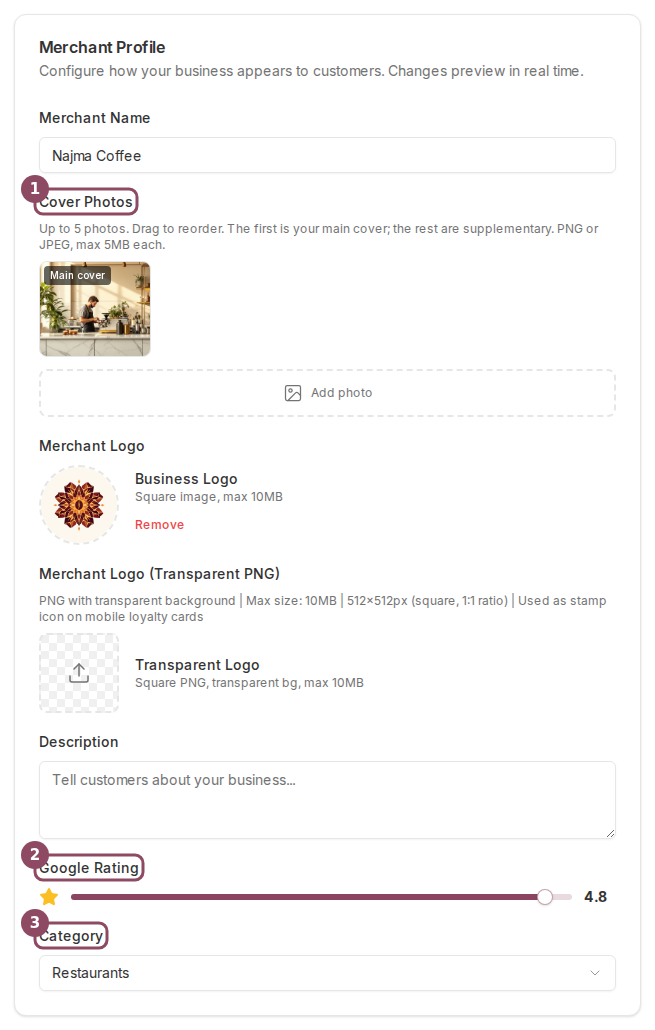
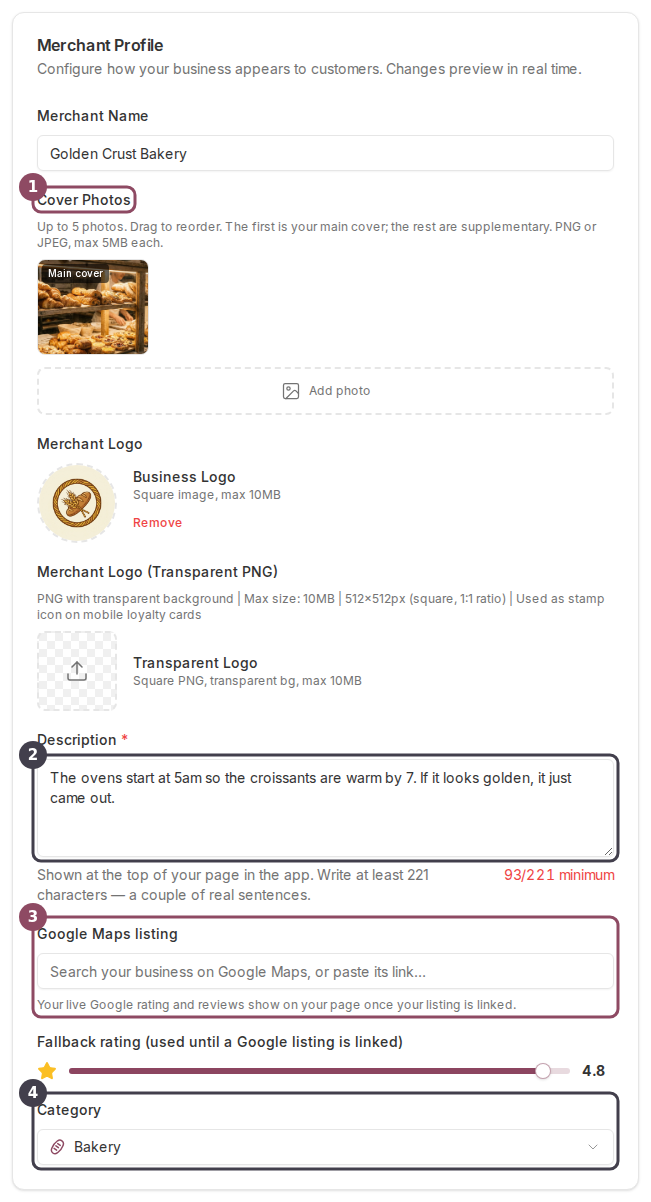
docs: add Your Google rating and opening hours (the merchant-page details strip)
New article for the stat strip qtap commit ba5529e put on the merchant page
and the three editor inputs that fill it: the Google Maps listing link, the
category, and the structured opening hours.

Also corrects four claims in merchants/settings/merchant-page-editor.mdx that
the same commit invalidated (the rating slider "does not read from Google",
eight categories, free-text working hours, a "short line" description), and
recaptures its Merchant Profile screenshot, which still showed the old form.

Claude-Session: https://claude.ai/code/session_017wvmqAfV45KcBaAZHmcoyv

diff --git a/CLAUDE.md b/CLAUDE.md
@@ -20,6 +20,107 @@ Automated runs by the Qtap Documentation Writer agent are logged here.
 
 ---
 
+## 2026-08-27 — Your Google rating and opening hours (the merchant-page details strip)
+
+**Article:** `merchants/merchant-page/rating-and-hours.mdx` (new) + a four-claim correction to
+`merchants/settings/merchant-page-editor.mdx` and a recapture of its stale profile screenshot.
+**Branch:** `claude/busy-clarke-4zgqw2`
+**Status:** Done. SMOKE_OK (TLS bridge, §6a); 8 new real annotated screenshots + 1 recapture,
+validate-images 8/8 and 4/4 OK. One task this run.
+
+### Task selection — the board is still fully triaged, so this was gap discovery (§14)
+`notion-query-data-sources` (SQL) returns 29 non-Done rows and every one carries a dated
+DUPLICATE / BLOCKED / NOT-A-FEATURE verdict from an earlier run. The only genuinely actionable
+rows left are three small prose corrections queued by the 08-23/08-26 runs (export-delete
+deleted-member note, the `c.qtap.qa` scan-address drift, the 409 concurrency paragraph) plus
+one engineering-fix row (`nfc_tags.stamp_card_id`). None is a new article.
+
+**`main` has caught up.** PRs #163–#185 are merged; #186–#191 (win-back, campaign analytics,
+deleted members, the two "without the app" merges, NFC placement, NFC Add Tag) are open and
+unmerged, so do not re-do those six.
+
+### The gap: the merchant page grew a stat strip and nobody documented it
+qtap commit `ba5529e` (2026-07-26, "Merchant page stat strip: preview/public parity + merchant
+data editor") replaced the merchant page's meta-chip identity block with the customer app's
+**stat strip** (category / Google rating / distance / live Open-Closed) on both the editor's
+phone preview and the public `/m/[slug]` page, and gave the editor the three inputs that fill
+it. Zero docs coverage, and the published `settings/merchant-page-editor.mdx` (written
+2026-05-03) is now wrong on four counts. All four fixed this run:
+
+| Published claim | Reality |
+|---|---|
+| "Google Rating is a slider… It does not read from Google" | `GooglePlaceField` (Places Autocomplete) saves `merchant_page.googlePlaceId`; the slider is relabelled **Fallback rating** and only renders while nothing is linked |
+| "Category is one of eight" | `MERCHANT_CATEGORIES` in `lib/constants/categories.ts` has **eighteen**, with icons |
+| "Working Hours is a free text field" | structured 7-day `BusinessHoursEditor` bound to a location's `opening_hours` |
+| "Description is a short line" | `MERCHANT_DESCRIPTION = { min: 221, max: 350 }`; save is blocked under the minimum |
+
+### Facts the article is built on (all grounded, all confirmed live)
+- `components/dashboard/merchant-page/google-place-field.tsx` — autocomplete over
+  `types: ['establishment']`; a pasted `google.*/maps/place/<name>` URL is parsed for the name
+  and primed into the search box (share links carry no usable `place_id`); the linked card
+  shows name / rating / review count / **Unlink**.
+- `supabase/functions/google-places/index.ts` (mobile repo) — **the pinned `googlePlaceId` is
+  honoured only when `activeBranchCount <= 1`.** A multi-branch merchant gets each branch
+  resolved by Find Place from Text biased to that branch's own coordinates. `CACHE_TTL_MS`
+  is 24h; a pg_cron `refresh_stale` task tops up rows older than 7 days.
+- `app/api/merchant-page/route.ts` — a changed `googlePlaceId` **deletes** the org's
+  `google_place_cache` row, so a corrected listing takes effect immediately.
+- `app/m/[slug]/merchant-public-page.tsx` — `stripRating = placeCache?.rating ?? (googleRating
+  > 0 ? googleRating : null)`, and the cell's sub-label reads "Google rating" even when the
+  number is the merchant's own fallback. Documented honestly ("keep the number you set honest").
+- `lib/opening-hours.ts` — `close <= open` is treated as a past-midnight close, so 6 PM–2 AM
+  reads Open at 1 AM; `getOpenState` checks yesterday's interval first.
+- `reviews-sheet.tsx` / `hours-sheet.tsx` — "Ratings come from Google. Qtap does not collect
+  its own reviews." and "Hours are set by the merchant in their dashboard."
+
+### THE GOTCHA WORTH KEEPING (verified live, shipped as a Warning)
+Hours save against **a branch**, and two different code paths pick that branch:
+- the editor uses `locationsData[0]`, and `hooks/use-locations.ts` filters `is_active` and
+  **orders by name** → the alphabetically first active branch;
+- `app/m/[slug]/page.tsx` reads `locations … .eq('is_active', true).limit(1)` with **no order**.
+
+Golden Crust proves the split live: hours are saved on **The Pearl Branch**, the editor edits
+**Al Sadd Branch** (which has `opening_hours = NULL`, so the editor shows the 09:00–22:00
+defaults), and the public page picked Al Sadd too, so its strip renders with **no Open cell at
+all** (2-up: Bakery / Map). Najma, Tea Time and Dana all render the fuller strip.
+
+### Screenshots (nothing was saved)
+`.routine/flows/merchant-page-strip.json` (points demo, **1440x2900**),
+`merchant-page-strip-public.json` (430x1000, the public `/m/najma-coffee` page) and
+`merchant-page-profile-recapture.json`. A Google listing was searched and selected to capture
+the linked-listing card, but **Update Merchant was never clicked**, so `googlePlaceId` is still
+null on every org and nothing on the account changed. No customer PII (merchant-owned content
+and one public Google listing).
+
+### Gotchas for future runs
+- **Set `"viewport": {"width":1440,"height":2900}` for `/merchant-page`.** The page is 2862px
+  tall; at that height nothing scrolls, so page coordinates equal viewport coordinates and
+  explicit `clip` rects become deterministic. Useful rects at 1440 wide: Google Maps listing
+  block `y 1273 h 92`, Fallback rating `y 1381 h 52`, Category `y 1449 h 68`, Working Hours
+  `y 1883 h 412`, the whole Merchant Profile card `x 280 y 364 w 627 h 1178`.
+- **`fill` does trigger Google Places autocomplete** (the `.pac-container` appears ~3s later),
+  and `{"press":"ArrowDown"}` + `{"press":"Enter"}` selects the first suggestion and fires
+  `place_changed`. No need to simulate typing.
+- **`maps.googleapis.com` is reachable through the agent proxy / TLS bridge** and
+  `NEXT_PUBLIC_GOOGLE_MAPS_API_KEY` is set in production, so the autocomplete really runs.
+  Suggestions are **US-biased** (sandbox IP): "Golden Crust Bakery" returns Boston and Ohio.
+  Appending "Doha Qatar" to the query returns Qatari places if you need them.
+- `[role=combobox]` timed out on the first attempt; `button[role='combobox']` after a 14s
+  settle works. The category listbox crops cleanly with `clipTo: "[role=listbox]"`.
+- `div.space-y-2:has(> label:text-is('Description *'))` resolves nothing (the red asterisk is a
+  separate node inside the label). Box the `textarea` instead.
+- The public page strip is uniquely `div[class*='shadow-[0_4px_12px']`; its two tappable cells
+  are that selector plus ` button` (nth=0 rating, nth=1 open state). Both open a
+  `QtBottomSheet`; a full 430x1000 shot captures the sheet without any cropping.
+- No org in the project has a `googlePlaceId`, so `google_place_cache` is empty everywhere and
+  the **Reviews sheet cannot be captured with real reviews**. The captured sheet shows the
+  fallback rating and the Google attribution line, which the caption says plainly.
+- Category drift worth a cleanup: Dana stores `"Beauty & Spa"`, which matches nothing in the
+  eighteen labels, so its public page reads **Other**. Najma and Tea Time store `"Restaurants"`
+  and match via the label-plus-s rule.
+
+---
+
 ## 2026-08-20 — Joining from a QR code without the app (web enrollment)
 
 **Article:** `merchants/members/joining-without-the-app.mdx` (new)
